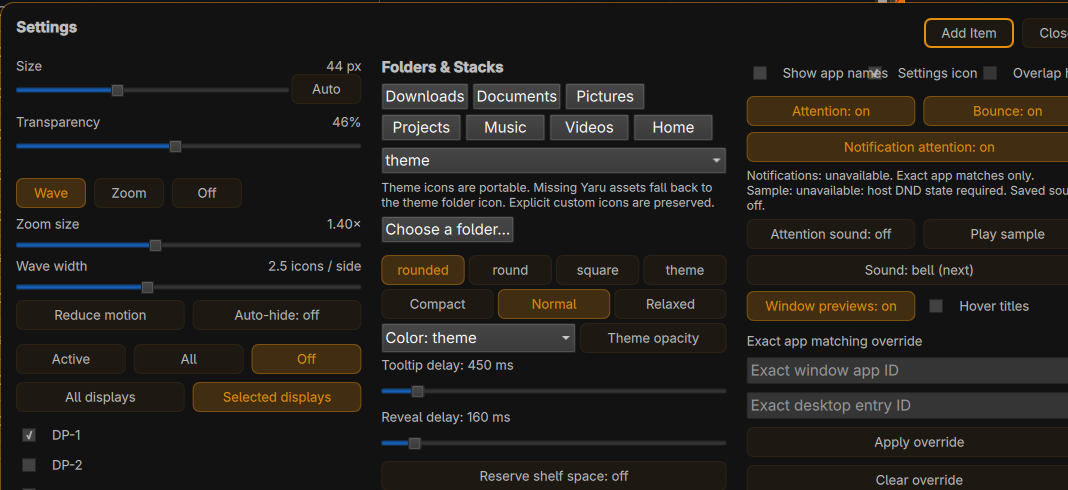
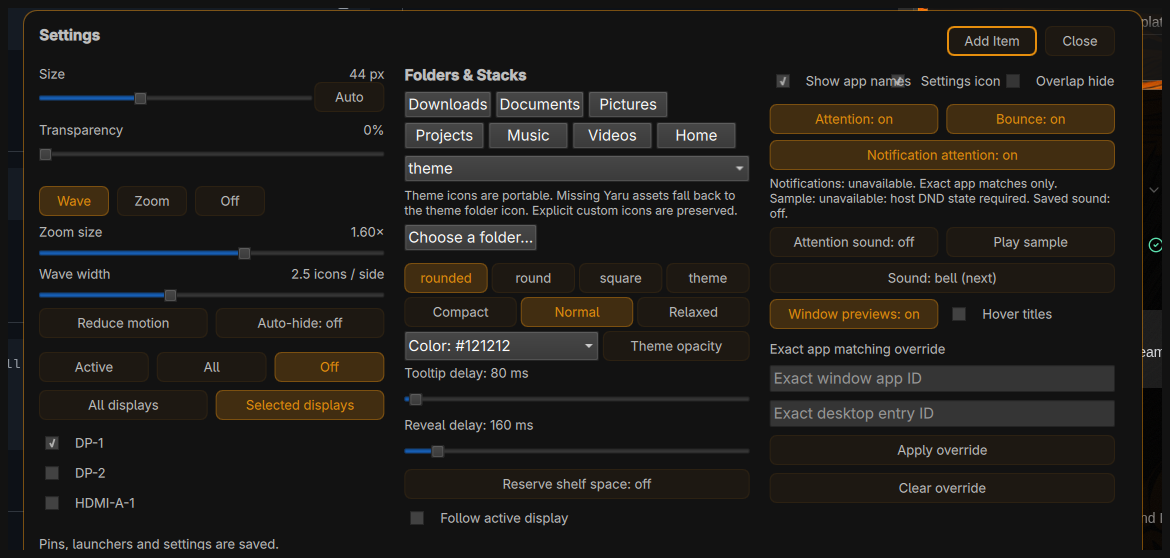
Replace cut-off strips with a full dock shot and Settings panel.

diff --git a/README.md b/README.md
@@ -4,7 +4,7 @@ A native dock for [Omarchy](https://omarchy.org): running apps, pins, folders, a
 
 Plugin id: `burmjohn.omadocked`.
 
-![Omadocked](docs/screenshots/shelf.png)
+![The dock](docs/screenshots/dock.png)
 
 ## Features
 
